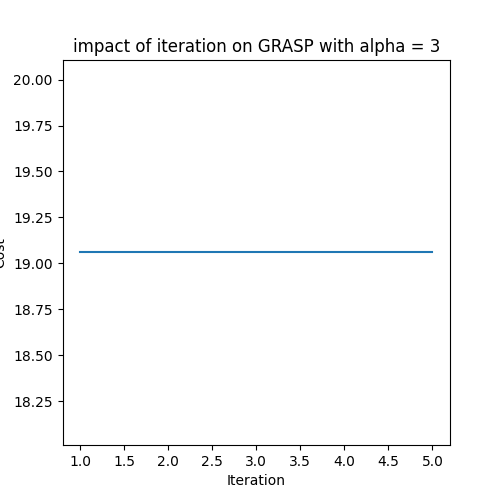
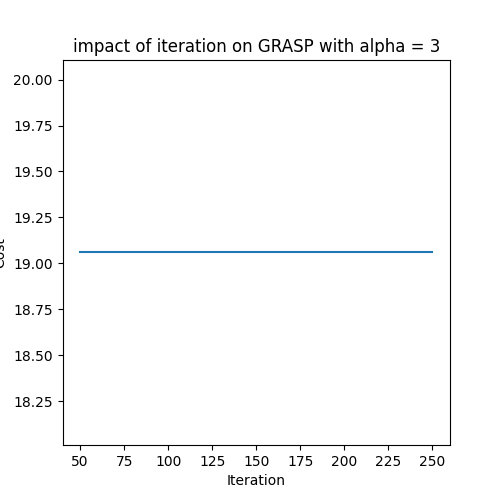
fixe minor issues in plots

diff --git a/main.py b/main.py
@@ -33,14 +33,14 @@ if __name__ == "__main__":
         # City("Z", 7, 5),
     ]
 
-    # alpha = 3
-    # iterations = 100
+    alpha = 3
+    iterations = 100
 
     # search
-    # grasp = Grasp(alpha, iterations)
-    # best_solution, t_explore, t_exploit = grasp.search(cities)
-    # best_solution.print_solution(best_solution)
-    # best_solution.plot_solution(best_solution)
+    grasp = Grasp(alpha, iterations)
+    best_solution, t_explore, t_exploit = grasp.search(cities)
+    best_solution.print_solution(best_solution)
+    best_solution.plot_solution(best_solution)
 
     # test grasp using different values of alpha
     alphas = [i for i in range(1, 6)]
@@ -103,7 +103,7 @@ if __name__ == "__main__":
     r2 = [x + barWidth for x in r1]
     plt.bar(r1, explore_times, color="blue", width=barWidth, label="Explore time")
     plt.bar(r2, exploit_times, color="red", width=barWidth, label="Exploit time")
-    plt.xticks([r + barWidth for r in range(len(explore_times))], alphas)
+    plt.xticks([r + barWidth for r in range(len(explore_times))], iterations)
     plt.title(f"impact of iteration on GRASP with alpha = {alpha}")
     plt.ylabel("Time")
     plt.xlabel("Iteration")
@@ -113,7 +113,7 @@ if __name__ == "__main__":
 
     # plot the results of the cost
     plt.figure(figsize=(5, 5))
-    plt.plot(alphas, cost_solutions)
+    plt.plot(iterations, cost_solutions)
     plt.title(f"impact of iteration on GRASP with alpha = {alpha}")
     plt.ylabel("Cost")
     plt.xlabel("Iteration")
